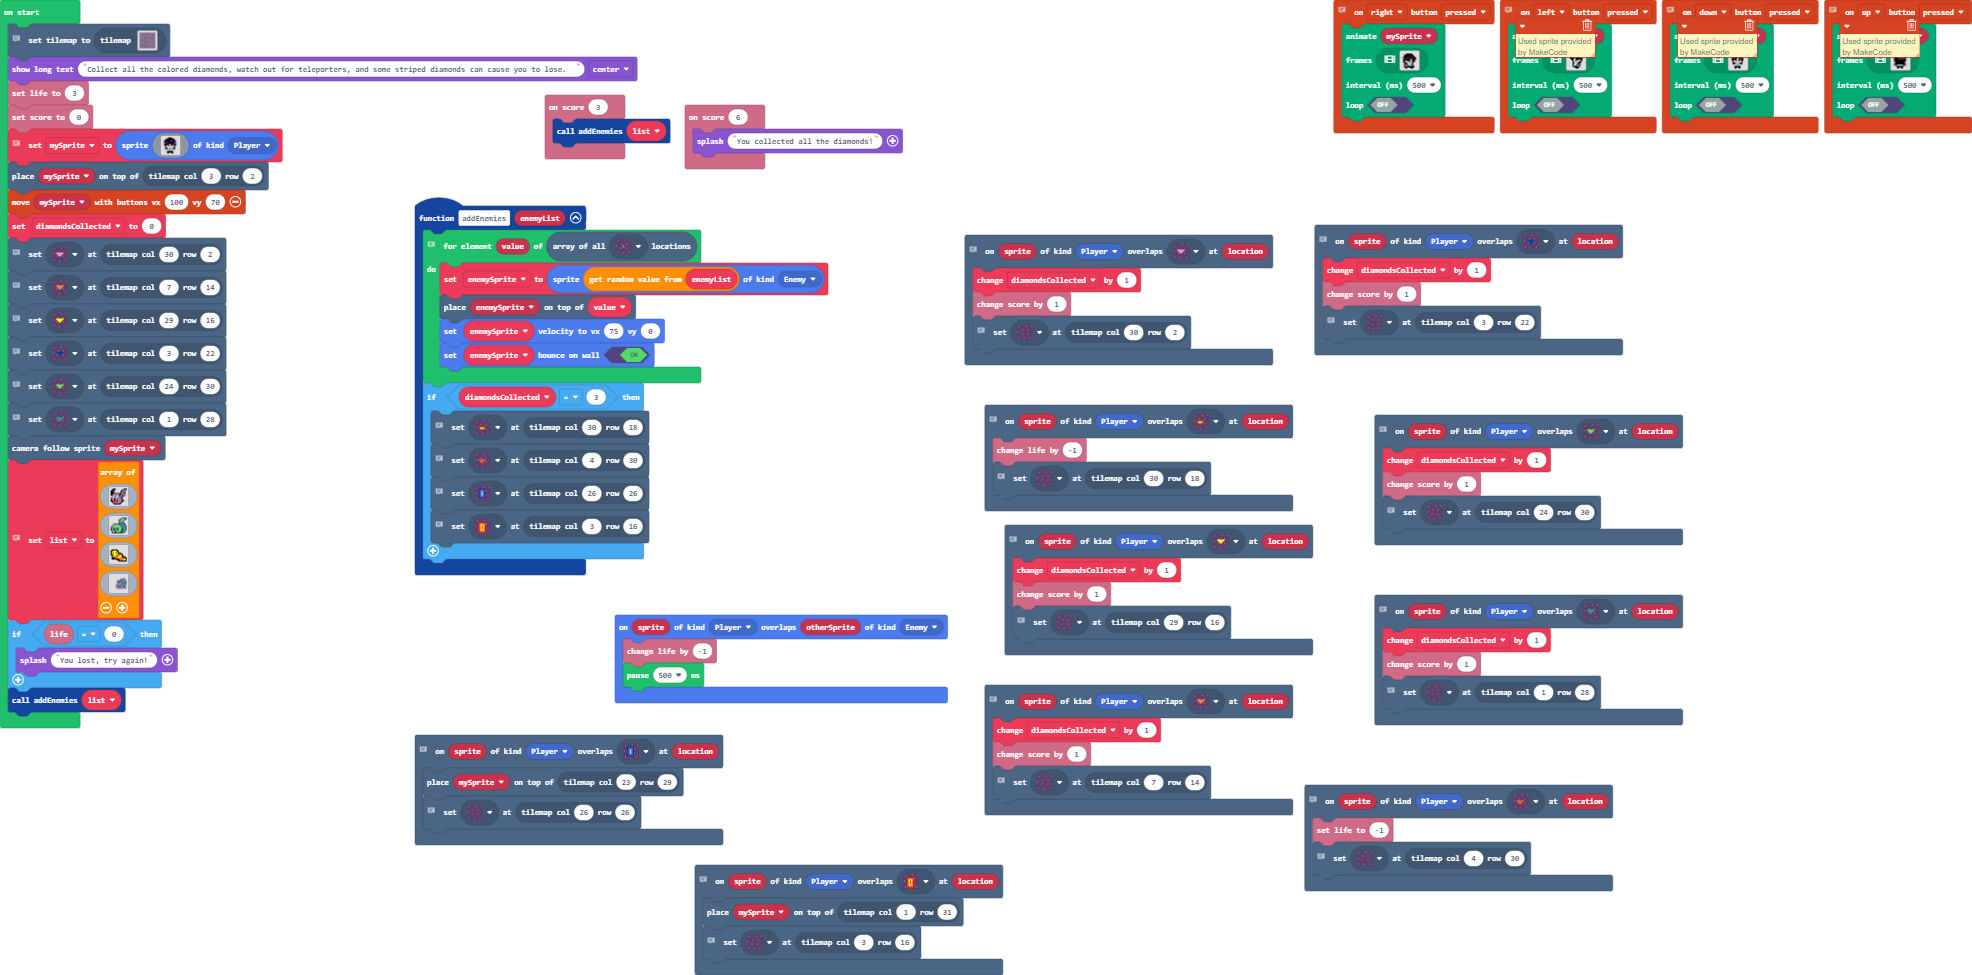
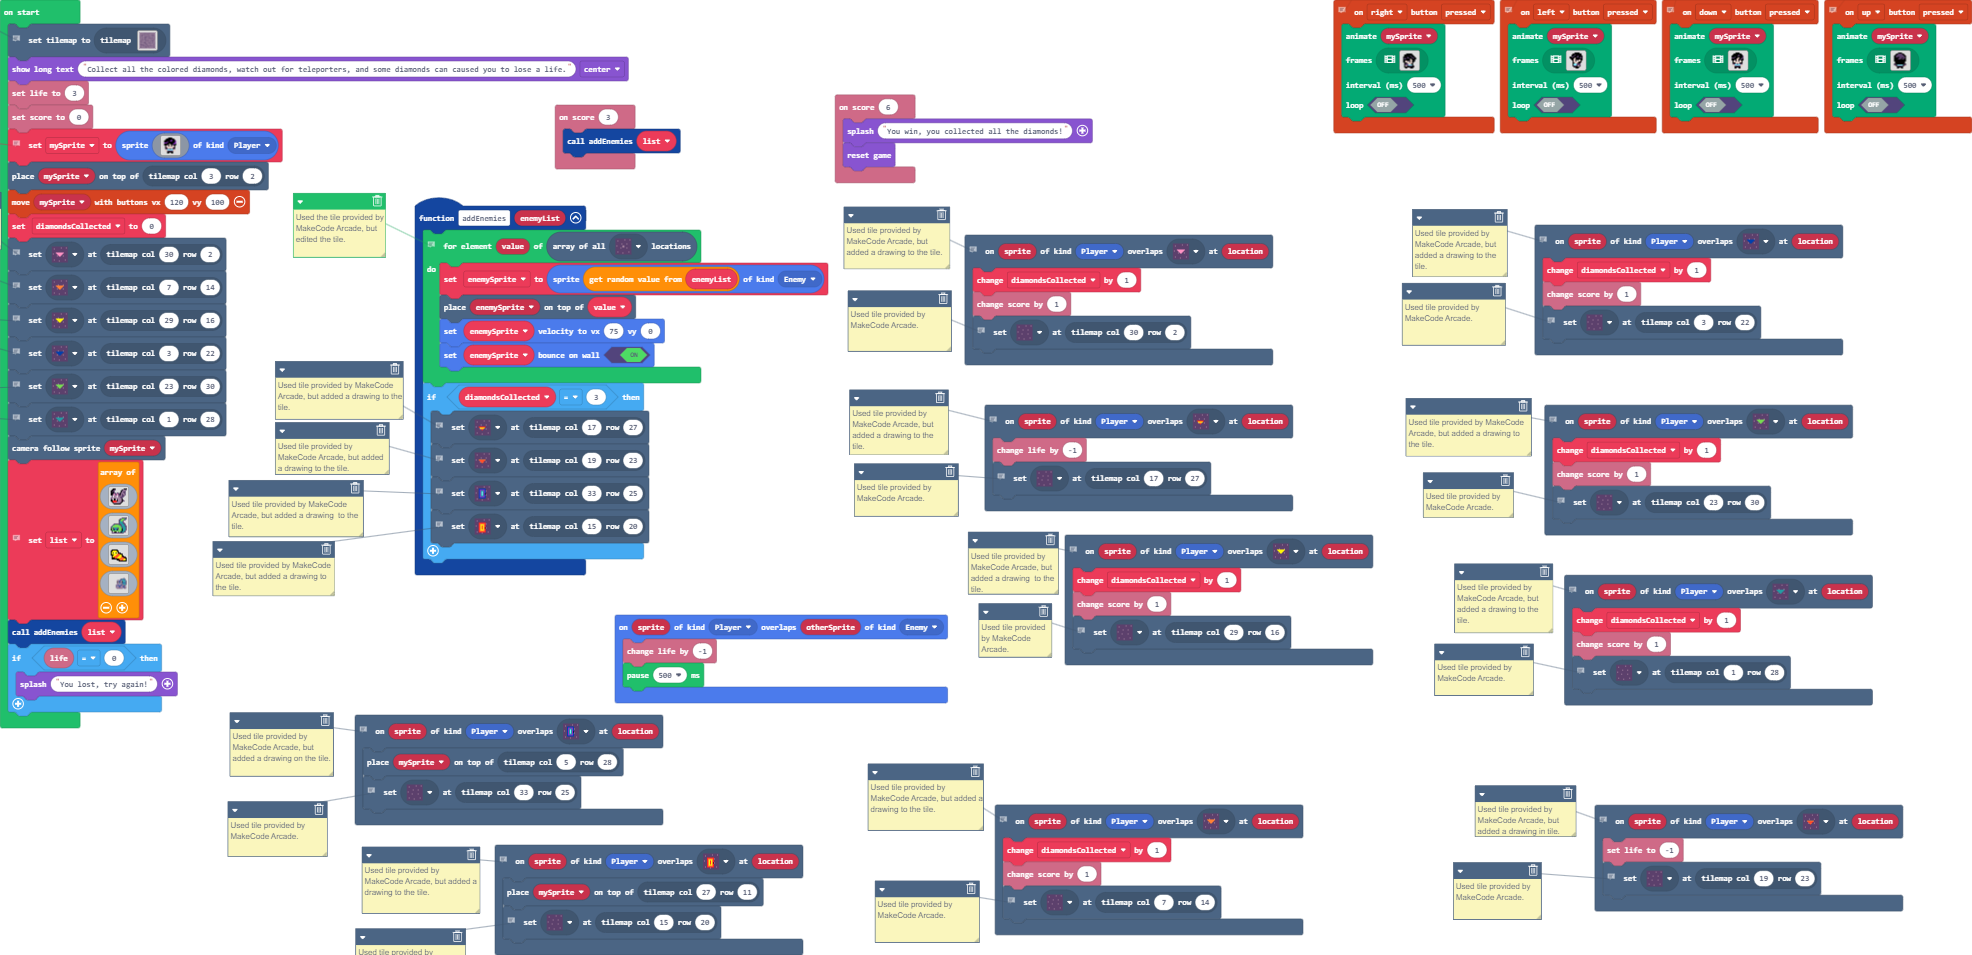
Update main.blocks, main.ts, tilemap.g.jres, tilemap.g.ts

diff --git a/tilemap.g.ts b/tilemap.g.ts
@@ -142,8 +142,46 @@ namespace myTiles {
 . . . . . . . . . . . . . . . . 
 . . . . . . . . . . . . . . . . 
 `, [myTiles.transparency16], TileScale.Sixteen);
+            case "level7":
+            case "level7":return tiles.createTilemap(hex`1000100000000000000000000000000000000000000000000000000000000000000000000000000000000000000000000000000000000000000000000000000000000000000000000000000000000000000000000000000000000000000000000000000000000000000000000000000000000000000000000000000000000000000000000000000000000000000000000000000000000000000000000000000000000000000000000000000000000000000000000000000000000000000000000000000000000000000000000000000000000000000000000000000000000000000000000000000000000000000000000000000000000000000000000000000000000000`, img`
+. . . . . . . . . . . . . . . . 
+. . . . . . . . . . . . . . . . 
+. . . . . . . . . . . . . . . . 
+. . . . . . . . . . . . . . . . 
+. . . . . . . . . . . . . . . . 
+. . . . . . . . . . . . . . . . 
+. . . . . . . . . . . . . . . . 
+. . . . . . . . . . . . . . . . 
+. . . . . . . . . . . . . . . . 
+. . . . . . . . . . . . . . . . 
+. . . . . . . . . . . . . . . . 
+. . . . . . . . . . . . . . . . 
+. . . . . . . . . . . . . . . . 
+. . . . . . . . . . . . . . . . 
+. . . . . . . . . . . . . . . . 
+. . . . . . . . . . . . . . . . 
+`, [myTiles.transparency16], TileScale.Sixteen);
+            case "level8":
+            case "level8":return tiles.createTilemap(hex`1000100001010101010101010101010101010101010202020102020202020202020202010102020201020202020202020202020101020202010202010101010202020201010202020102020102020102020202010102020201020201020201020202020101020202010101010202010201020201010202020202020202020102010202010102020202020202020201020102020101020101010101010101010201020201010201020202020202020202010202010102010202020202020202020102020101020101010101010101010101020201010202020202020202020202020202010102020202020202020202020202020101010101010101010101010101010101`, img`
+. . . . . . . . . . . . . . . . 
+. . . . . . . . . . . . . . . . 
+. . . . . . . . . . . . . . . . 
+. . . . . . . . . . . . . . . . 
+. . . . . . . . . . . . . . . . 
+. . . . . . . . . . . . . . . . 
+. . . . . . . . . . . . . . . . 
+. . . . . . . . . . . . . . . . 
+. . . . . . . . . . . . . . . . 
+. . . . . . . . . . . . . . . . 
+. . . . . . . . . . . . . . . . 
+. . . . . . . . . . . . . . . . 
+. . . . . . . . . . . . . . . . 
+. . . . . . . . . . . . . . . . 
+. . . . . . . . . . . . . . . . 
+. . . . . . . . . . . . . . . . 
+`, [myTiles.transparency16,myTiles.tile2,myTiles.tile18], TileScale.Sixteen);
             case "level":
-            case "level1":return tiles.createTilemap(hex`2300230002020202020202020202020202020202020202020202020202020202020202020202020201010101010101010101010101010101010101010101010101010101010101010102020101010101010401040101010101010101010101010101020101010101010101030202020202020202020202010101020301010101010101010102020202020202020202020201010101010101030201010102020202020202020202020201010101010101010102020101020202020102020101010201010101010101010103020101010101010101030202010102010101010101010101020102020202020201020202010202020202020202020201010201010102020202010102010201010102010101010201020101010101010102020101020101010101010201010101020101010201010101020102010101030201010202010102010201010103020101010102010101020101010102010202020202020101020201010201020202020202010101010101010102010202020201010101010102010102020101010101010101010201010101010101010201010101020101010101010201010202010203010101010101020101010101020201020101010102010101010101020101020201020202020202010202010101020101010101010101030201010101010302010102020101010101010101030201010102020202020202020202020101020202020201010202020202020202020202020101010101010101010101010104010101010101010101020201010101010101010101010101010102020202020202020201020101010101010302020101010201010101010101030201010201010101010101020102020202020202020202010101020202020202020202020101020101010202020102010105010101020101020201010102010102010102010101010102010201010101010101010201010102010102020101010201010201010101010101010201020101010101010103020201010202010202010101010101020101020101020202020102020202020202020202010101020101020201010101010302010102010101010102010101010101010201010101010202010102020202020202020201010101010101010201010101010103020101010101030201010202010101020101020101010302010101020202020202020202020202010102020101020201010102010102020202020201010101010201010201010101010202010201010102020101010201010101010101010101010101010101020101010101020101020102020202010101010101010101010201010101010101010302010202020202010202010101020203010101010101020101020202020202020202020201010101010201010201010102020202020202020202010101010101010201010101010101010101020201020202010202010101010201010101010101010101020101010102010101010101010302010101020201010101020202020202020101010102010201010202020202020202020201010102020101010101010101010102010101010101020101010201010201010201010101010202030101010101010101010101010101010102010101010101010101010101010103020202020202020202020202020202020202020202020202020202020202020202020202`, img`
+            case "level1":return tiles.createTilemap(hex`2300230002020202020202020202020202020202020202020202020202020202020202020202020201010101010101010101010101010101010101010101010101010101010101010102020101010101010404040101010101010101010101010101020101010101010101030202020202020202020202010101020301010101010101010102020202020202020202020201010101010101030201010102020202020202020202020201010101010101010102020101020202020102020101010201010101010101010103020101010101010101030202010102010101010101010101020102020202020201020202010202020202020202020201010201010102020202010102010201010102010101010201020101010101010102020101020101010101010201010101020101010201010101020102010101030201010202010102010201010103020101010102010101020101010102010202020202020101020201010201020202020202010101010101010102010202020201010101010102010102020101010101010101010201010101010101010201010101020101010101010201010202010204010101010101020101010101020201020101010102010101010101020101020201020202020202010202010101020101010101010101030201010201010302010102020101010101010101030201010102020202020202020202020101020202020201010202020202020202020202020101010101010101010101010104010101010101010101020201010101010101010101010101010102020202020202020201020101010101010302020101010201010101010101030201010201010101010101020102020202020202020202010101020202020202020202020101020101010202020102010104010101020101020201010102010102010102010101010102010201010101010101010201010102010102020101010201010201010101010101010201020101010101010103020201010202010202010101010101020101020101020202020102020202020202020202010101020101020201010101010302010102010101010102010101010101010201010101010202010102020202020202020201010101010101010201010101010103020101010101030201010202010101020101020101010302010101020202020202020202020202010102020101020201010102010102020202020201010101010201010201010101010202010201010102020101010201010101010101010101010101010101020101010101020101020102020202010101010101010101010201010101010101010302010202020202010202010101020203010101010101020101020202020202020202020201010101010201010201010102020202020202020202010101010101010201010101010101010101020201020202010202010101010201010101010101010101020101010102010101010101010302010101020201010101020202020202020101010102010201010202020202020202020201010102020101010101010101010102010101010101020101010201010201010201010101010202030101010101010101010101010101010102010101010101010101010101010103020202020202020202020202020202020202020202020202020202020202020202020202`, img`
 22222222222222222222222222222222222
 2.................................2
 2.......................2.........2
@@ -157,7 +195,7 @@ namespace myTiles {
 2..2.222222........2.2222......2..2
 2.........2........2....2......2..2
 2.2.......2.....22.2....2......2..2
-2.222222.22...2.........2......2..2
+2.222222.22...2.........2..2...2..2
 2.........2...22222222222..22222..2
 22222222222.......................2
 2...............222222222.2.......2
@@ -179,7 +217,7 @@ namespace myTiles {
 2..........2......2...2..2..2.....2
 2.................2...............2
 22222222222222222222222222222222222
-`, [myTiles.transparency16,myTiles.tile1,myTiles.tile2,myTiles.tile14,myTiles.tile19,myTiles.tile18], TileScale.Sixteen);
+`, [myTiles.transparency16,myTiles.tile1,myTiles.tile2,myTiles.tile14,myTiles.tile18], TileScale.Sixteen);
         }
         return null;
     })

diff --git a/main.ts b/main.ts
@@ -10,9 +10,9 @@ scene.onOverlapTile(SpriteKind.Player, assets.tile`myTile1`, function (sprite, l
 })
 // Used tile provided by MakeCode Arcade, but added a drawing to the tile. 
 scene.onOverlapTile(SpriteKind.Player, assets.tile`myTile19`, function (sprite, location) {
-    tiles.placeOnTile(mySprite, tiles.getTileLocation(1, 31))
-    // Used tile provided by MakeCode Arcame.
-    tiles.setTileAt(tiles.getTileLocation(3, 16), assets.tile`myTile16`)
+    tiles.placeOnTile(mySprite, tiles.getTileLocation(27, 11))
+    // Used tile provided by MakeCode Arcade.
+    tiles.setTileAt(tiles.getTileLocation(15, 20), assets.tile`myTile16`)
 })
 // Used sprite provided by MakeCode Arcade, but edited the sprite.
 controller.up.onEvent(ControllerButtonEvent.Pressed, function () {
@@ -78,13 +78,13 @@ controller.up.onEvent(ControllerButtonEvent.Pressed, function () {
 scene.onOverlapTile(SpriteKind.Player, assets.tile`myTile15`, function (sprite, location) {
     info.changeLifeBy(-1)
     // Used tile provided by MakeCode Arcade. 
-    tiles.setTileAt(tiles.getTileLocation(30, 18), assets.tile`myTile`)
+    tiles.setTileAt(tiles.getTileLocation(17, 27), assets.tile`myTile`)
 })
 // Used tile provided by MakeCode Arcade, but added a drawing in tile. 
 scene.onOverlapTile(SpriteKind.Player, assets.tile`myTile13`, function (sprite, location) {
     info.setLife(-1)
     // Used tile provided by MakeCode Arcade. 
-    tiles.setTileAt(tiles.getTileLocation(4, 30), assets.tile`myTile16`)
+    tiles.setTileAt(tiles.getTileLocation(19, 23), assets.tile`myTile16`)
 })
 // Used tile provided by MakeCode Arcade, but added a drawing to the tile. 
 scene.onOverlapTile(SpriteKind.Player, assets.tile`myTile4`, function (sprite, location) {
@@ -160,7 +160,7 @@ scene.onOverlapTile(SpriteKind.Player, assets.tile`myTile9`, function (sprite, l
     // Used tile provided by MakeCode Arcade. 
     tiles.setTileAt(tiles.getTileLocation(1, 28), assets.tile`myTile`)
 })
-// Used tile provided by MakeCode Arcade, but added a drawing  to the tile..
+// Used tile provided by MakeCode Arcade, but added a drawing  to the tile.
 scene.onOverlapTile(SpriteKind.Player, assets.tile`myTile3`, function (sprite, location) {
     diamondsCollected += 1
     info.changeScoreBy(1)
@@ -169,11 +169,11 @@ scene.onOverlapTile(SpriteKind.Player, assets.tile`myTile3`, function (sprite, l
 })
 // Used tile provided by MakeCode Arcade, but added a drawing on the tile. 
 scene.onOverlapTile(SpriteKind.Player, assets.tile`myTile18`, function (sprite, location) {
-    tiles.placeOnTile(mySprite, tiles.getTileLocation(23, 29))
+    tiles.placeOnTile(mySprite, tiles.getTileLocation(5, 28))
     // Used tile provided by MakeCode Arcade.
-    tiles.setTileAt(tiles.getTileLocation(26, 26), assets.tile`myTile16`)
+    tiles.setTileAt(tiles.getTileLocation(33, 25), assets.tile`myTile16`)
 })
-// Used sprite provided by MakeCode, but edited the sprite.
+// Used sprite provided by MakeCode Arcade, but edited the sprite.
 controller.right.onEvent(ControllerButtonEvent.Pressed, function () {
     animation.runImageAnimation(
     mySprite,
@@ -234,7 +234,7 @@ controller.right.onEvent(ControllerButtonEvent.Pressed, function () {
     )
 })
 function addEnemies (enemyList: Image[]) {
-    // Used the tile provided by MakeCode arcade, but edited the tile. 
+    // Used the tile provided by MakeCode Arcade, but edited the tile. 
     for (let value of tiles.getTilesByType(assets.tile`myTile12`)) {
         enemySprite = sprites.create(enemyList._pickRandom(), SpriteKind.Enemy)
         tiles.placeOnTile(enemySprite, value)
@@ -243,13 +243,13 @@ function addEnemies (enemyList: Image[]) {
     }
     if (diamondsCollected == 3) {
         // Used tile provided by MakeCode Arcade, but added a drawing to the tile. 
-        tiles.setTileAt(tiles.getTileLocation(30, 18), assets.tile`myTile15`)
+        tiles.setTileAt(tiles.getTileLocation(17, 27), assets.tile`myTile15`)
         // Used tile provided by MakeCode Arcade, but added a drawing to the tile.
-        tiles.setTileAt(tiles.getTileLocation(4, 30), assets.tile`myTile13`)
+        tiles.setTileAt(tiles.getTileLocation(19, 23), assets.tile`myTile13`)
         // Used tile provided by MakeCode Arcade, but added a drawing  to the tile. 
-        tiles.setTileAt(tiles.getTileLocation(26, 26), assets.tile`myTile18`)
+        tiles.setTileAt(tiles.getTileLocation(33, 25), assets.tile`myTile18`)
         // Used tile provided by MakeCode Arcade, but added a drawing to the tile. 
-        tiles.setTileAt(tiles.getTileLocation(3, 16), assets.tile`myTile19`)
+        tiles.setTileAt(tiles.getTileLocation(15, 20), assets.tile`myTile19`)
     }
 }
 // Used sprite provided by MakeCode Arcade, but edited the sprite.
@@ -324,13 +324,14 @@ scene.onOverlapTile(SpriteKind.Player, assets.tile`myTile5`, function (sprite, l
     diamondsCollected += 1
     info.changeScoreBy(1)
     // Used tile provided by MakeCode Arcade. 
-    tiles.setTileAt(tiles.getTileLocation(24, 30), assets.tile`myTile`)
+    tiles.setTileAt(tiles.getTileLocation(23, 30), assets.tile`myTile`)
 })
 info.onScore(3, function () {
     addEnemies(list)
 })
 info.onScore(6, function () {
-    game.splash("You collected all the diamonds!")
+    game.splash("You win, you collected all the diamonds!")
+    game.reset()
 })
 sprites.onOverlap(SpriteKind.Player, SpriteKind.Enemy, function (sprite, otherSprite) {
     info.changeLifeBy(-1)
@@ -342,10 +343,10 @@ let diamondsCollected = 0
 let mySprite: Sprite = null
 // Used tiles provided by MakeCode Arcade.
 tiles.setCurrentTilemap(tilemap`level`)
-game.showLongText("Collect all the colored diamonds, watch out for teleporters, and some striped diamonds can cause you to lose.  ", DialogLayout.Center)
+game.showLongText("Collect all the colored diamonds, watch out for teleporters, and some diamonds can caused you to lose a life.", DialogLayout.Center)
 info.setLife(3)
 info.setScore(0)
-// Used sprite provided by MakeCode, Arcade, but edited the sprite.
+// Used sprite provided by MakeCode Arcade, but edited the sprite.
 mySprite = sprites.create(img`
     . . . . f f f f . . . . . 
     . . f f f f f f f f . . . 
@@ -365,7 +366,7 @@ mySprite = sprites.create(img`
     . . . f f . . f f . . . . 
     `, SpriteKind.Player)
 tiles.placeOnTile(mySprite, tiles.getTileLocation(3, 2))
-controller.moveSprite(mySprite, 100, 70)
+controller.moveSprite(mySprite, 120, 100)
 diamondsCollected = 0
 // Used tile provided by MakeCode Arcade, but added a drawing to the tile.
 tiles.setTileAt(tiles.getTileLocation(30, 2), assets.tile`myTile1`)
@@ -376,11 +377,11 @@ tiles.setTileAt(tiles.getTileLocation(29, 16), assets.tile`myTile3`)
 // Used tile provided by MakeCode Arcade, but added a drawing to the tile. 
 tiles.setTileAt(tiles.getTileLocation(3, 22), assets.tile`myTile4`)
 // Used tile provided by MakeCode Arcade, but added a drawing to the tile. 
-tiles.setTileAt(tiles.getTileLocation(24, 30), assets.tile`myTile5`)
+tiles.setTileAt(tiles.getTileLocation(23, 30), assets.tile`myTile5`)
 // Used tile provided by Makecode Arcade, but added a drawing to the tile.
 tiles.setTileAt(tiles.getTileLocation(1, 28), assets.tile`myTile9`)
 scene.cameraFollowSprite(mySprite)
-// Used the first two sprites provided by MakeCode arcade, and edited the colors of  the fourth sprite  that was provided by MakeCode Arcade. 
+// Used the first two sprites provided by MakeCode Arcade, and edited the colors of  the fourth sprite  that was provided by MakeCode Arcade. 
 list = [
 img`
     . . f f f . . . . . . . . f f f 
@@ -455,7 +456,7 @@ img`
     .........ccccccccc..ccc.
     `
 ]
+addEnemies(list)
 if (info.life() == 0) {
     game.splash("You lost, try again!")
 }
-addEnemies(list)
